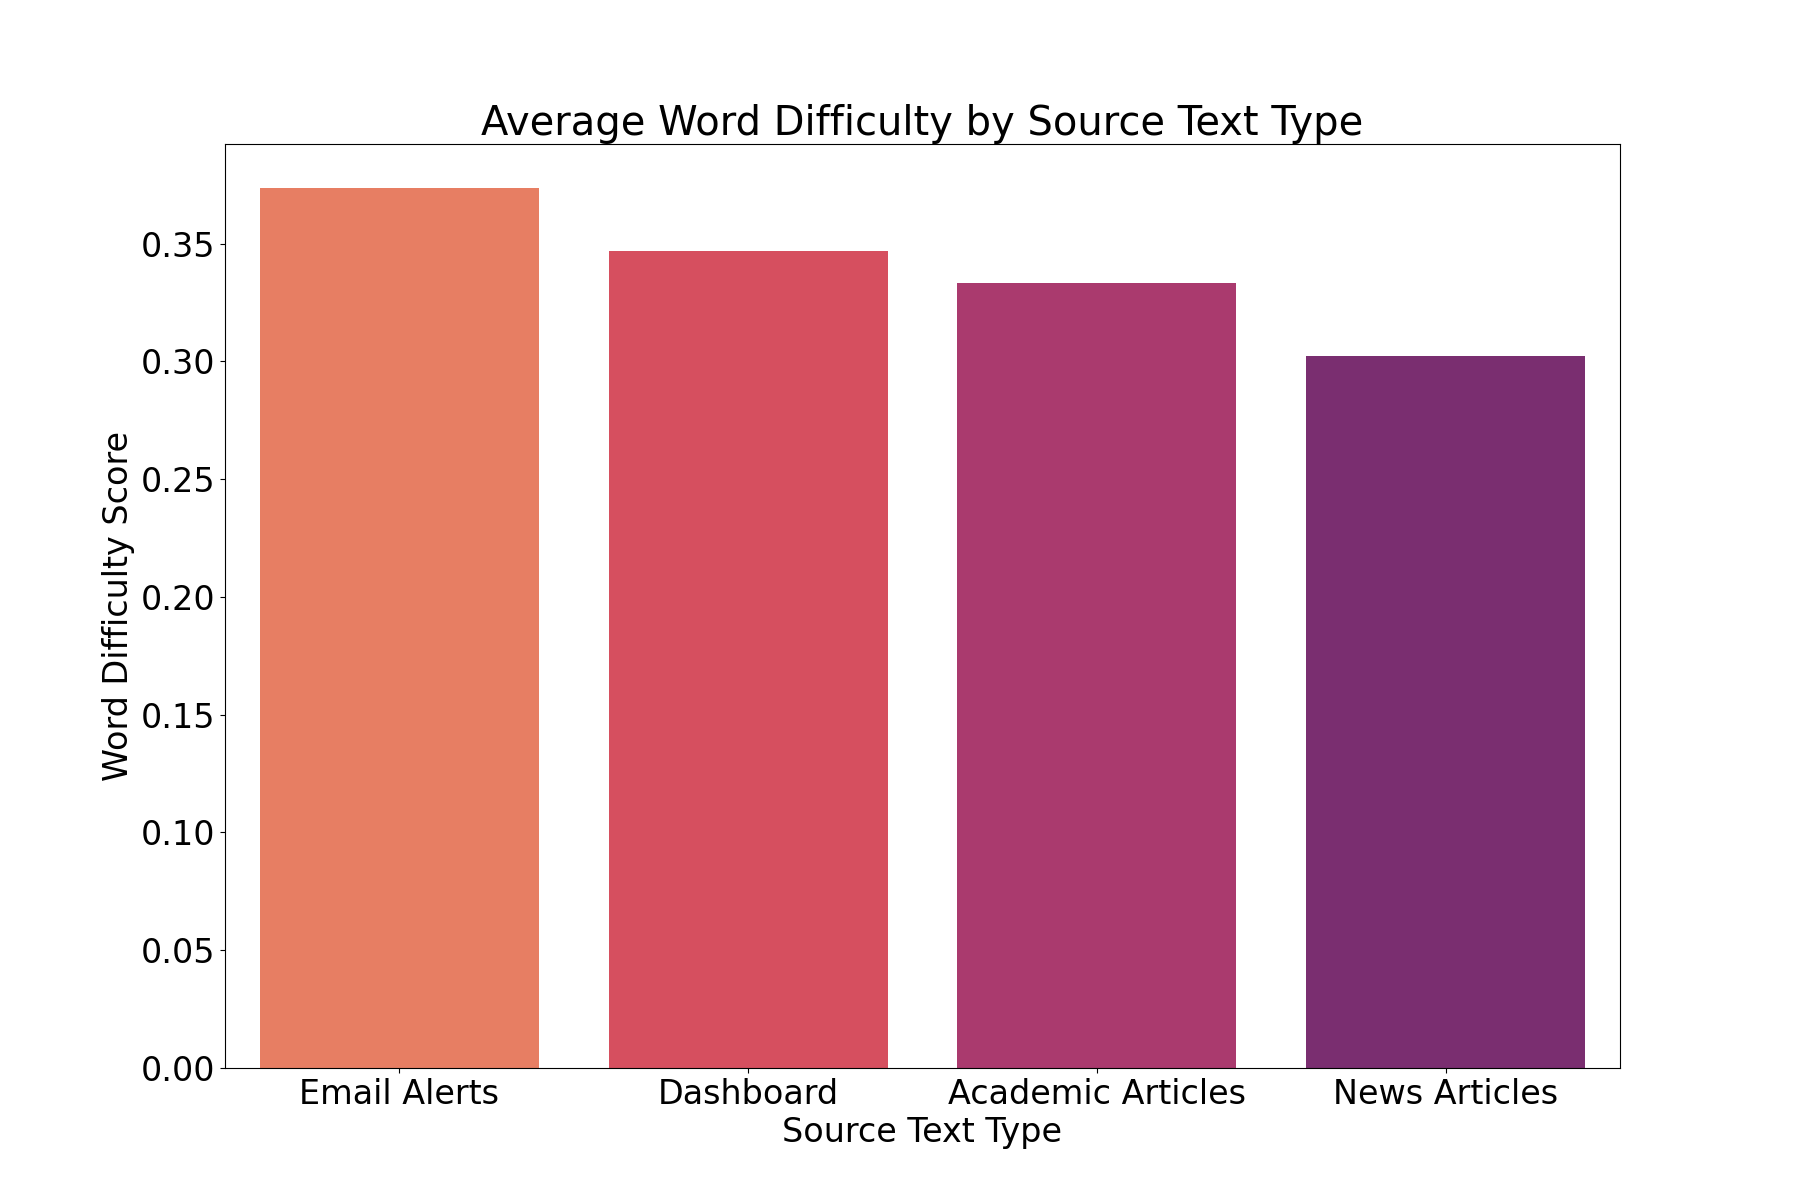
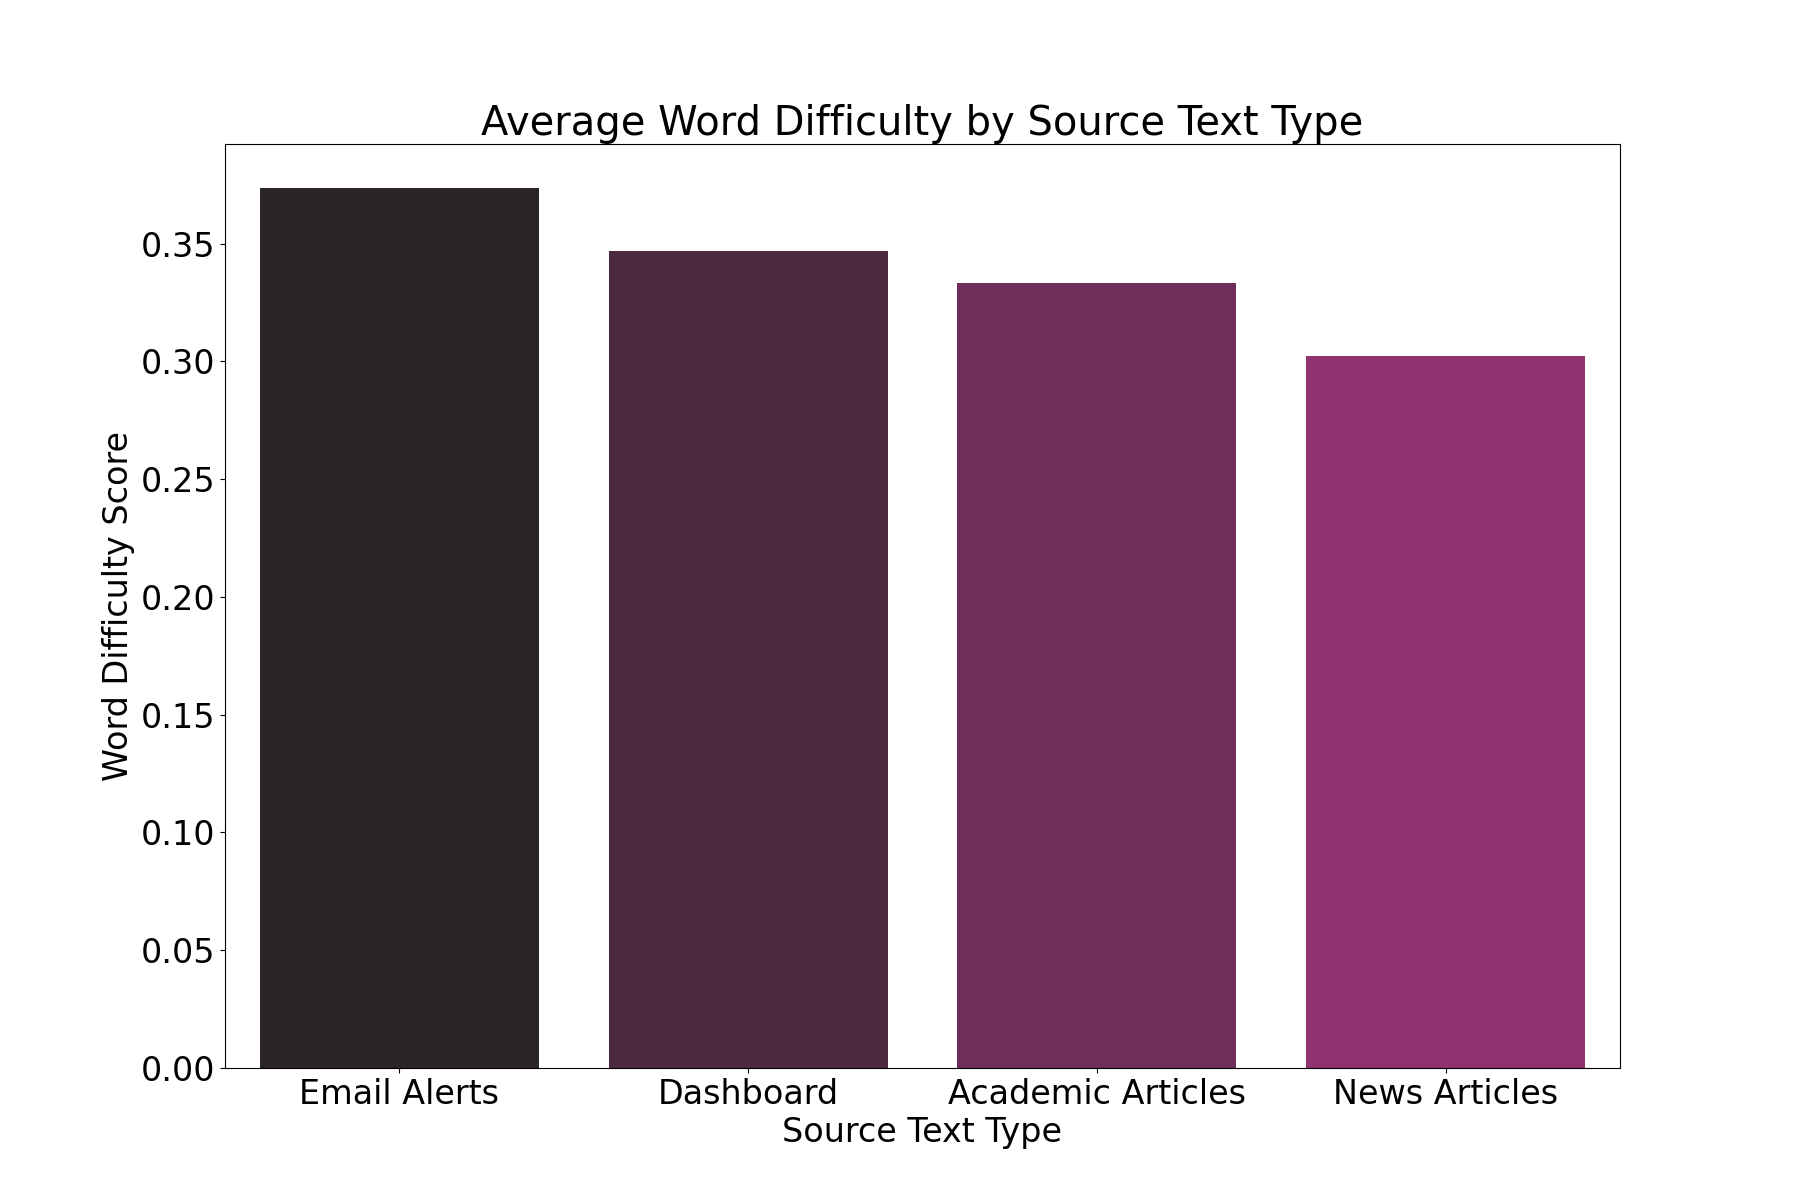
Updated graphs for text analysis

diff --git a/02_Code/03_FrequencyAnalysis/01_TermFrequencyInverseDocFrequency.py b/02_Code/03_FrequencyAnalysis/01_TermFrequencyInverseDocFrequency.py
@@ -147,7 +147,8 @@ def plotAvgWordScores(wordScoresDf):
 
     # Set figure size
     plt.figure(figsize=(18, 12))
-    palette = sns.color_palette("flare", n_colors=wordScoresDf["Document"].nunique())
+    #palette = sns.color_palette("flare", n_colors=wordScoresDf["Document"].nunique())
+    palette = sns.color_palette("flare")
 
     # Create the stacked barplot - as of now, will be skewed based on which source texts we have more text
     sns.barplot(
@@ -155,7 +156,7 @@ def plotAvgWordScores(wordScoresDf):
         x="Document",
         y="WordDifficultyScore",
         hue="Document",
-        palette=palette,
+        color=palette[4],
         saturation=1
     )
 
